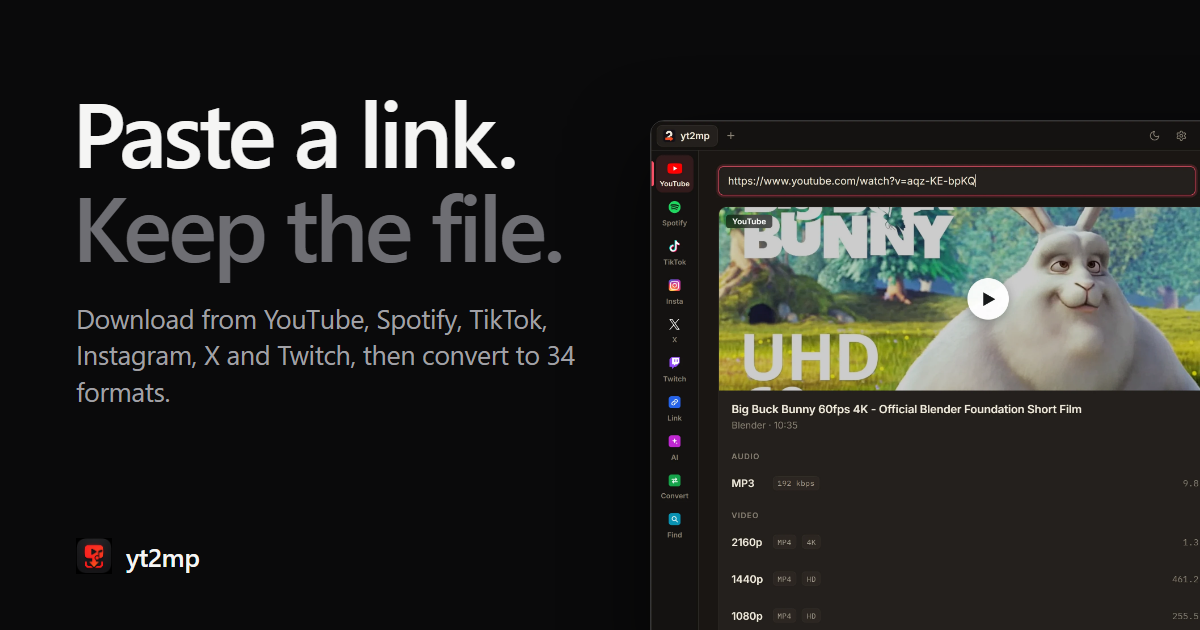
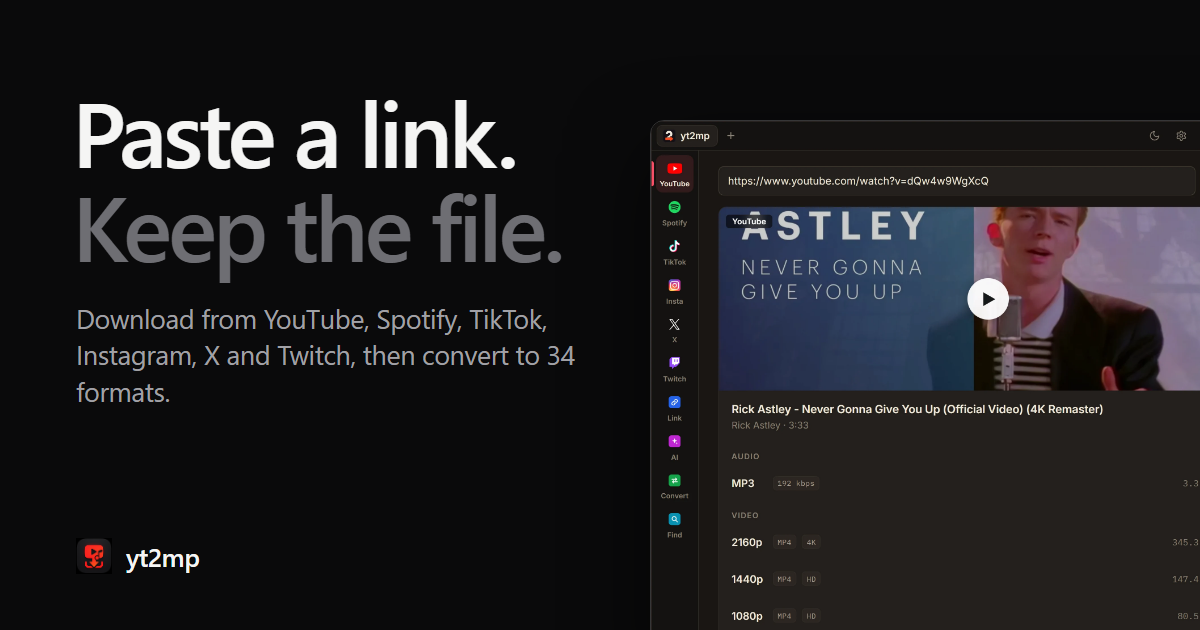
Site: hero screenshot shows Rick Astley instead of Big Buck Bunny

Changed region(s): [[0.5858, 0.2413, 1.0, 0.6937], [0.9867, 0.9048, 1.0, 0.9349]]

diff --git a/web/app/page.tsx b/web/app/page.tsx
@@ -211,7 +211,7 @@ export default function Home() {
                         <div className="window">
                             <Image
                                 src="/shots/app-youtube.webp"
-                                alt="The yt2mp window with a YouTube video fetched: the MP3 option at 9.8 MB and video qualities from 2160p at 1.3 GB down to 720p, each with its size"
+                                alt="The yt2mp window with a YouTube video fetched: the MP3 option at 3.3 MB and video qualities from 2160p at 345 MB down to 720p, each with its size"
                                 width={2250}
                                 height={1900}
                                 sizes="(max-width: 1100px) 100vw, 1000px"
